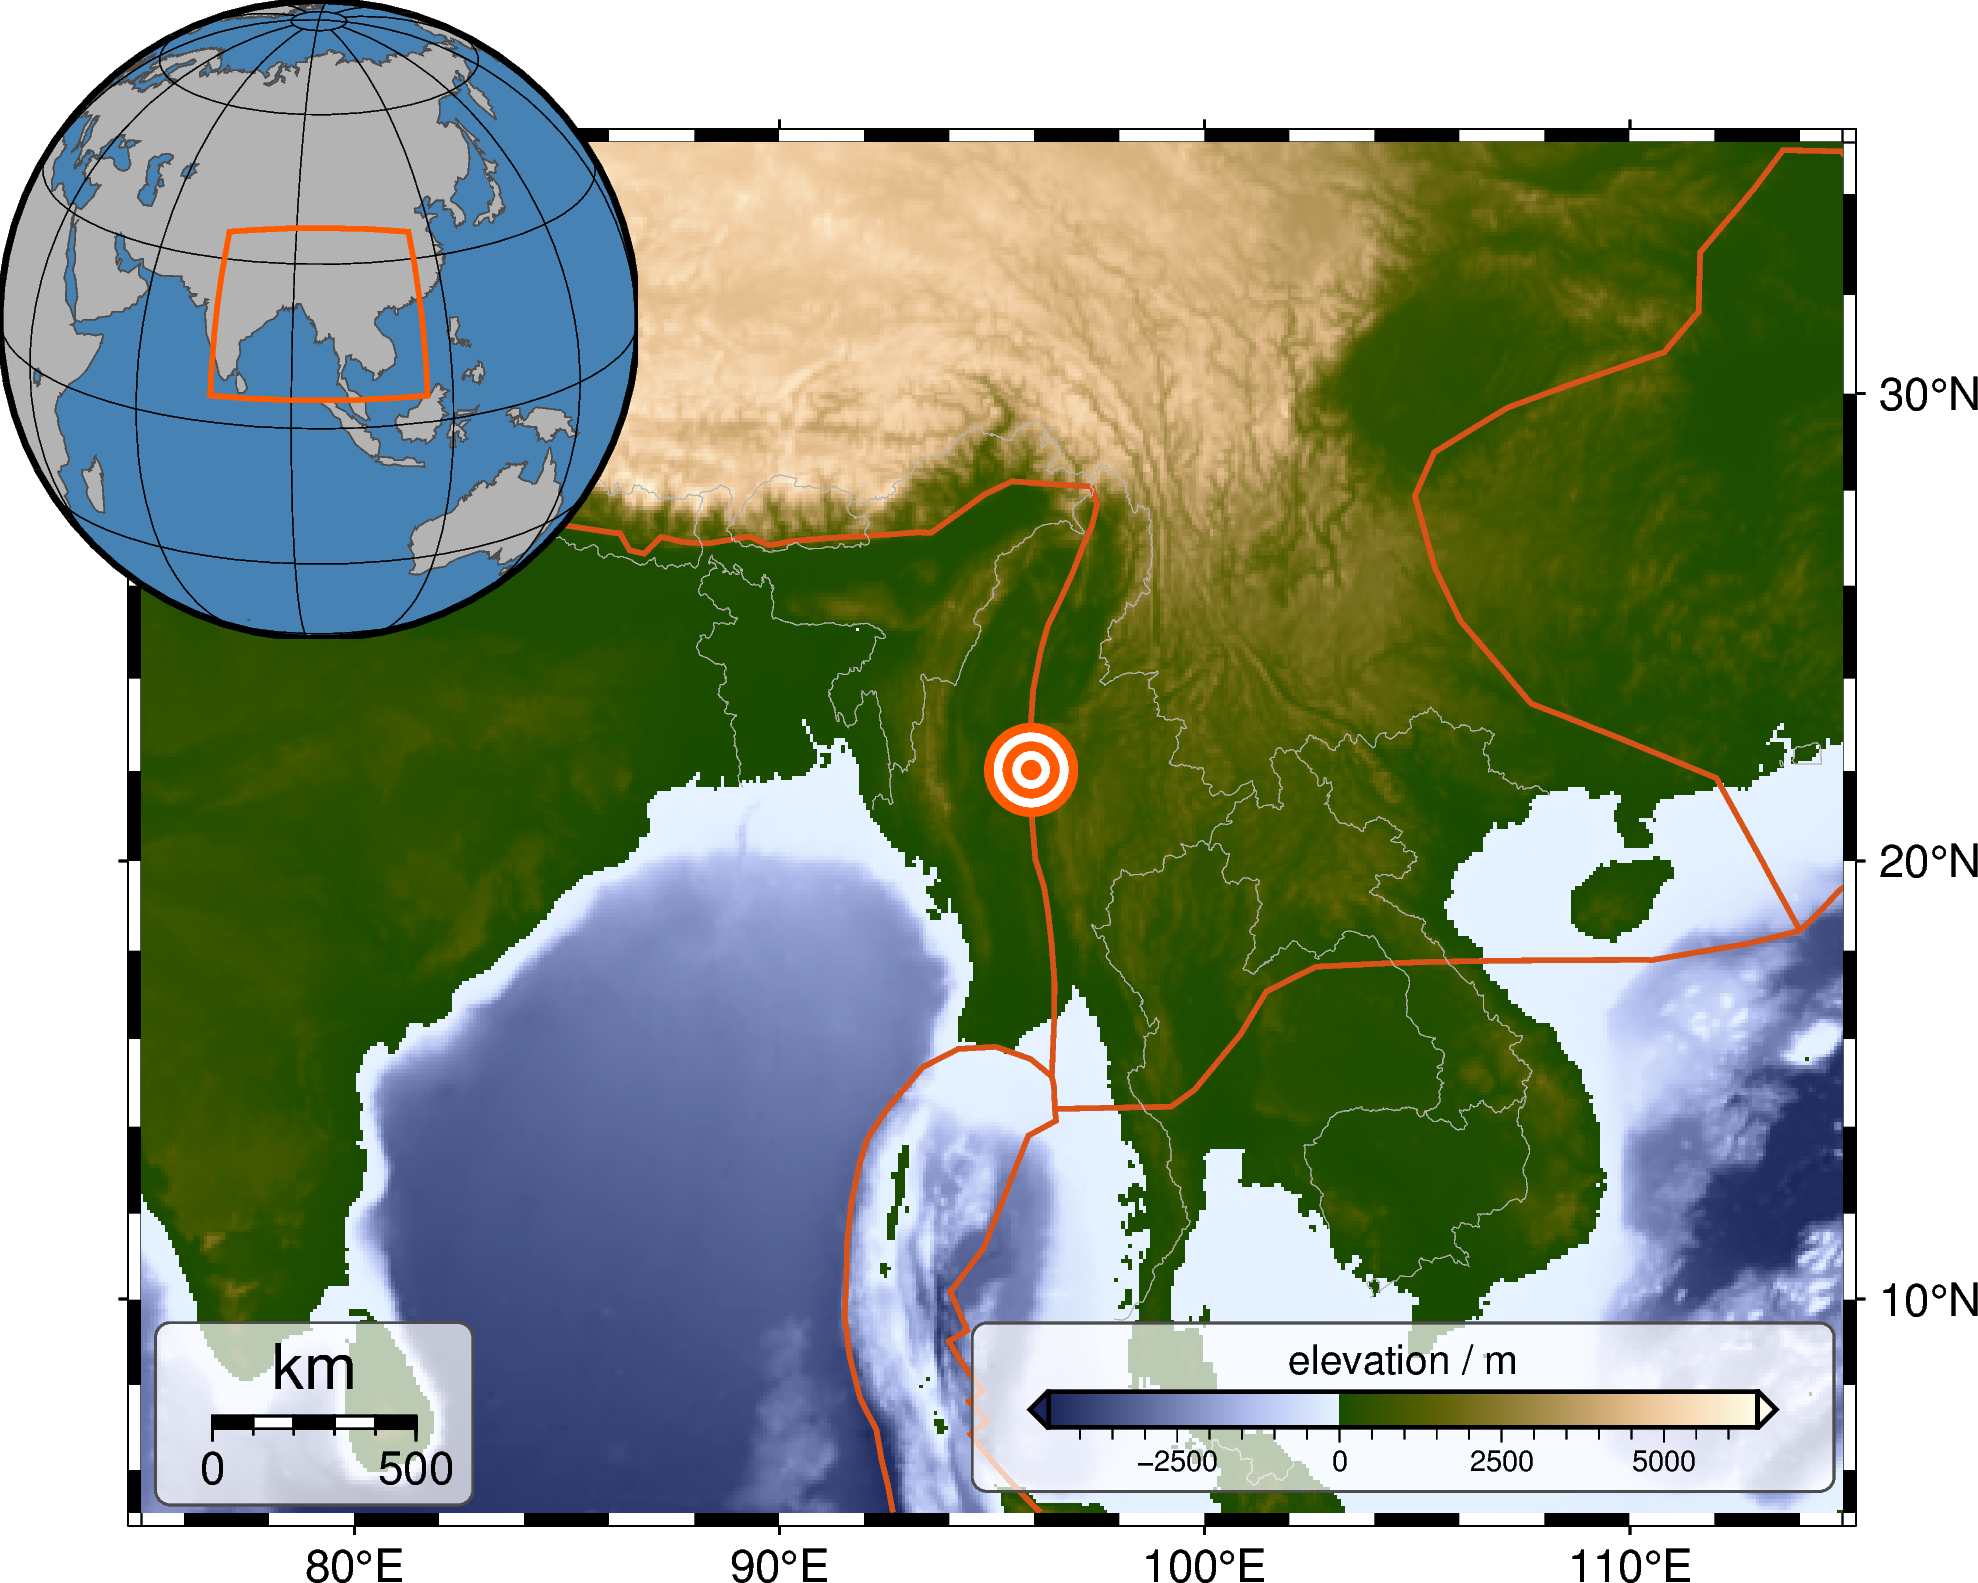
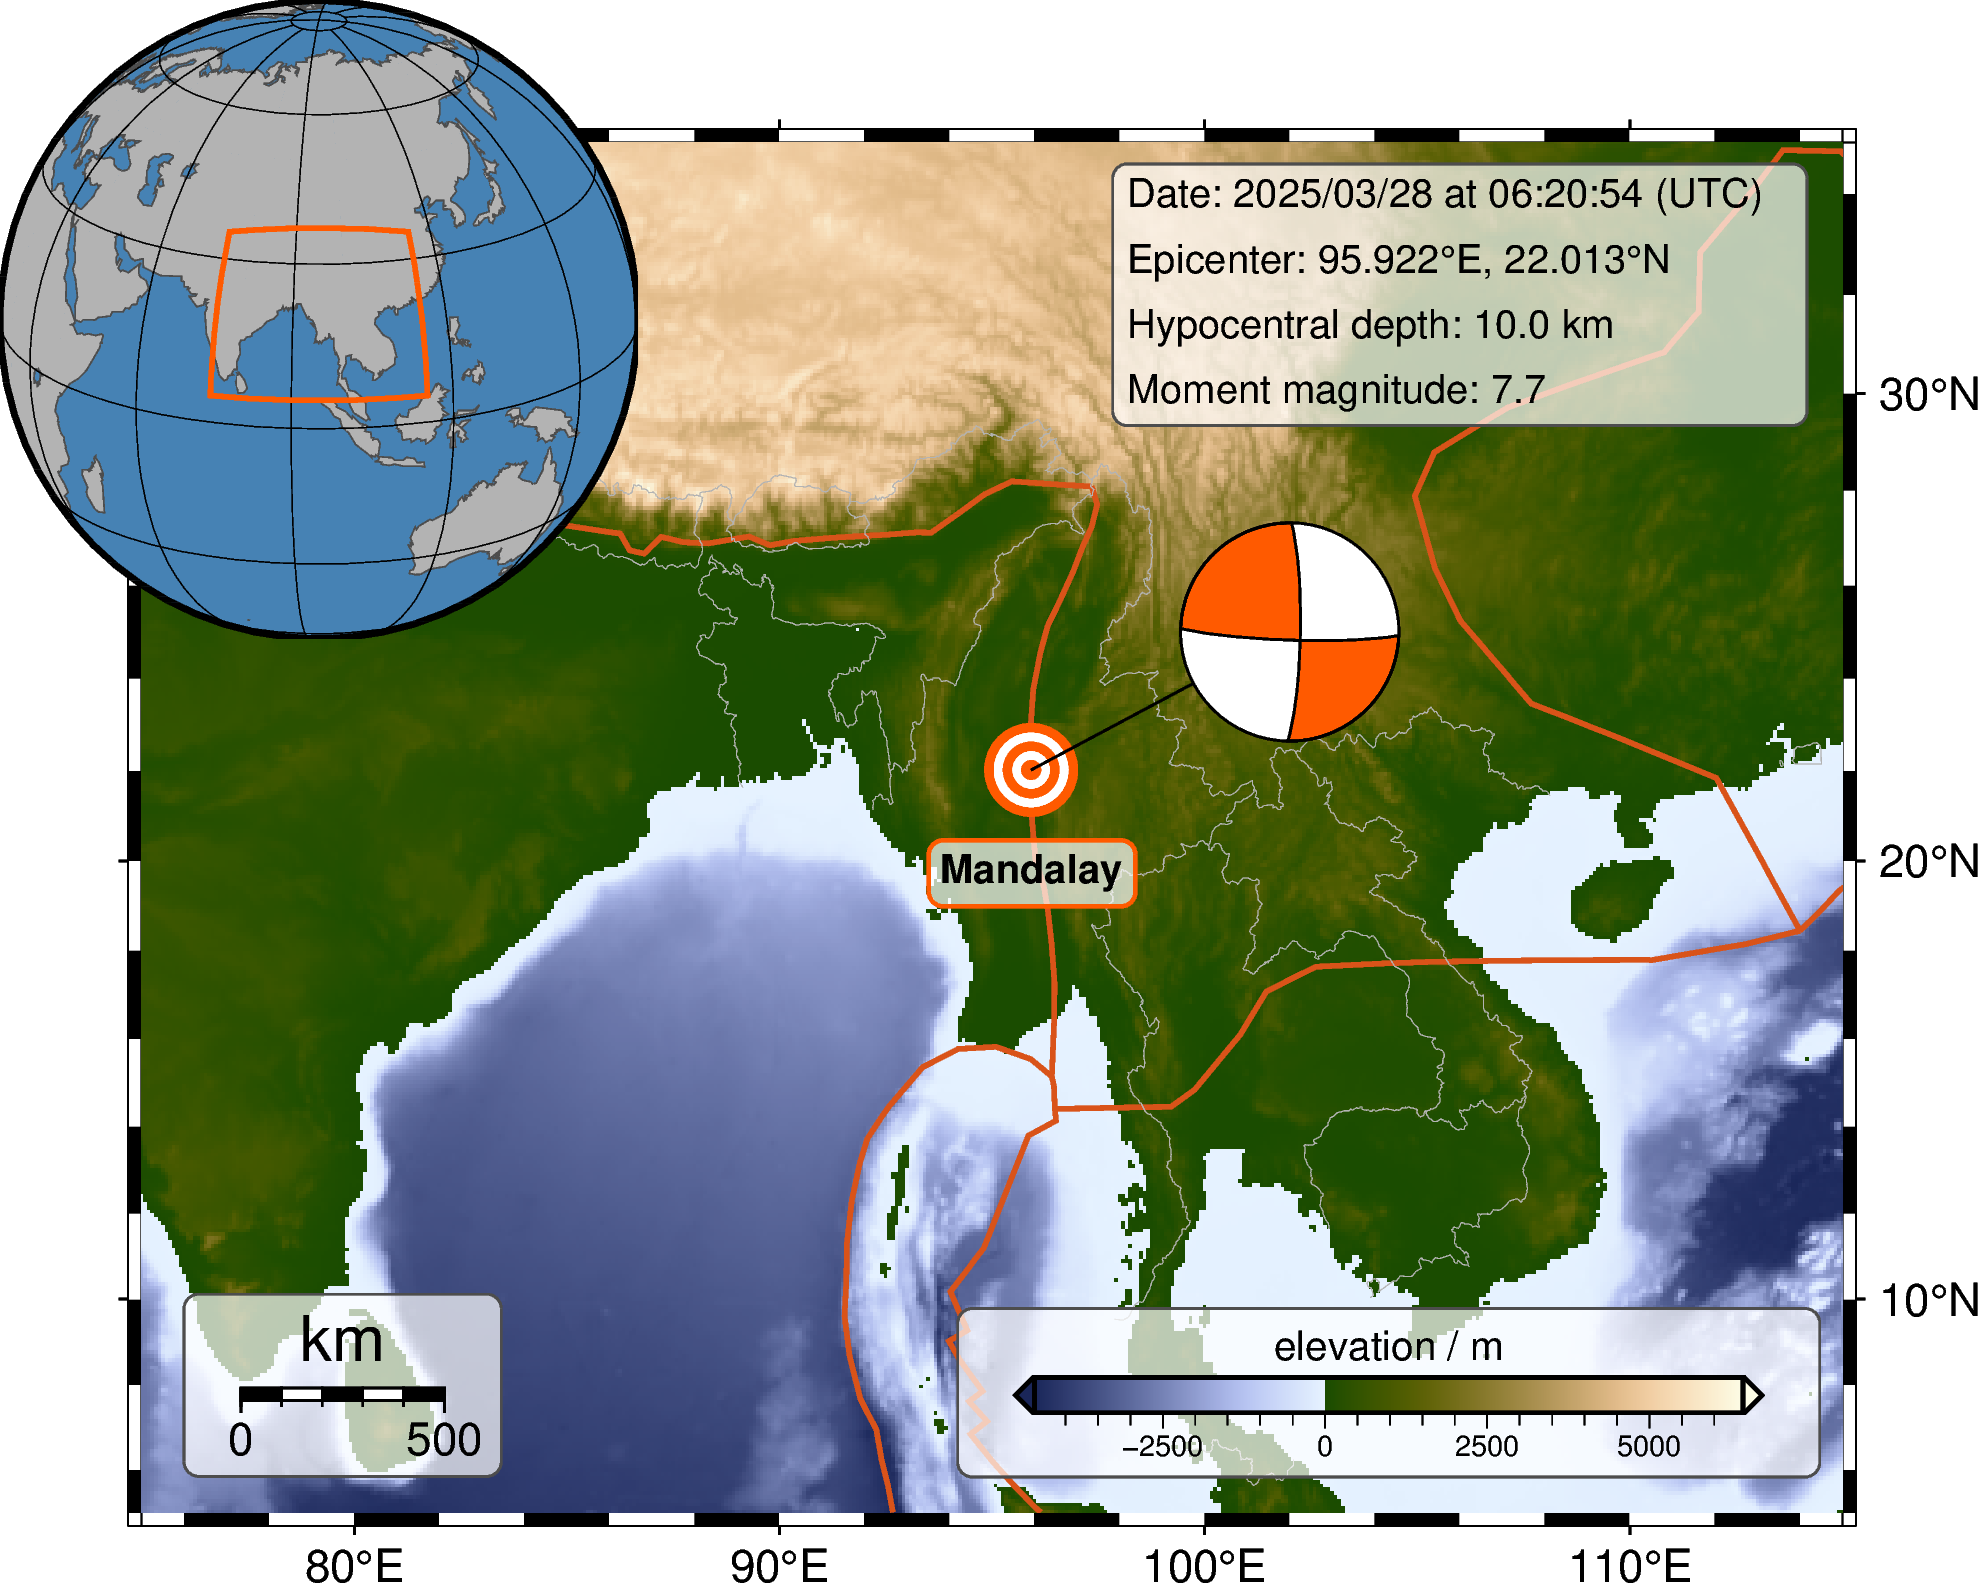
Add stuff regarding beachball

diff --git a/004_earthquakes_eruptions/08_myanmar_earthquake.py b/004_earthquakes_eruptions/08_myanmar_earthquake.py
@@ -53,8 +53,8 @@ projection_ortho = f"G{center_str}/?"
 
 # -----------------------------------------------------------------------------
 # Coordinates of epicenter
-lon_eq = 95.92  # degrees East
-lat_eq = 22.01  # degrees North
+lon_eq = 95.922  # degrees East
+lat_eq = 22.013  # degrees North
 
 # -----------------------------------------------------------------------------
 # Colors
@@ -67,11 +67,11 @@ color_highlight = "255/90/0"  # -> orange
 
 # -----------------------------------------------------------------------------
 # Stuff for scale, legends, colorbars, and insets
-basemap_scale = f"JLB+jLB+w500+c{center_str}+f+lkm+at+o0.5c"
+basemap_scale = f"JLB+jLB+w500+c{center_str}+f+lkm+at+o0.7c"
 
-pos_study_inset = "jTL+w4.5c+o-1c/-1c"
+pos_study_inset = "jTL+w4.5c+o-1c"
 
-pos_cb_grid = "JRB+jRB+w5c/0.25c+h+ml+o0.6c+e"
+pos_cb_grid = "JRB+jRB+w5c/0.25c+h+ml+o0.7c+e"
 frame_cb_grid = "xa2500f500+lelevation / m"
 
 box_standard = "+gwhite@30+p0.5p,gray30+r0.1c"
@@ -109,12 +109,11 @@ fig.plot(
     fill=color_highlight,
     pen=color_highlight,
 )
-"""
-# TODO
+
 # Beachball
 pen_epi = "0.5p,black"
 fig.meca(
-    spec=f"{path_in}/meca_thailand.txt",
+    spec=f"{path_in}/meca_myanmar.txt",
     convention="aki",
     scale="1c",
     compressionfill=color_highlight,  # fill color of compressive quadrants
@@ -125,9 +124,9 @@ fig.meca(
 fig.text(
     x=lon_eq,
     y=lat_eq,
-    text="xxx",
+    text="Mandalay",
     font="8p,Helvetica-Bold,black",
-    offset="-0.5c/-0.8c",
+    offset="0c/-0.7c",
     fill="white@30",
     pen=f"0.8p,{color_highlight}",
     clearance="0.1c/0.1c+tO",
@@ -135,14 +134,14 @@ fig.text(
 # Info text
 # Adjust position in txt file
 fig.text(
-    textfiles=f"{path_in}/info_thailand.txt",
+    textfiles=f"{path_in}/info_myanmar.txt",
     M=True,  # paragraph mode # read from file
     font="8p,black",
     fill="white@30",
     clearance="0.1c/0.1c+tO",
     pen="0.5p,gray30",
 )
-"""
+
 
 # -----------------------------------------------------------------------------
 # Add colorbar for elevation
@@ -187,7 +186,7 @@ with fig.inset(position=pos_study_inset):
 # Show and save figure
 fig.show()
 
-# for ext in ["png"]:  # , "pdf", "eps"]:
-#     fig.savefig(fname=f"{path_out}/{fig_name}.{ext}", dpi=dpi_png)
+for ext in ["png"]:  # , "pdf", "eps"]:
+    fig.savefig(fname=f"{path_out}/{fig_name}.{ext}", dpi=dpi_png)
 
 print(fig_name)

diff --git a/004_earthquakes_eruptions/README.md b/004_earthquakes_eruptions/README.md
@@ -15,6 +15,6 @@ _Recommended versions_: PyGMT v0.11.0-v0.14.2, GMT 6.4.0-6.5.0
 | [05_marocco_earthquake.py](https://github.com/yvonnefroehlich/gmt-pygmt-plotting/blob/main/004_earthquakes_eruptions/04_turkey_syria_earthquake.py)       | Marocco               | 2023/09/08 at 22:11 (UTC)            | <img src="https://github.com/yvonnefroehlich/gmt-pygmt-plotting/raw/main/004_earthquakes_eruptions/02_out_figs/05_marocco_earthquake.png" width="60"> |
 | [06_japan_earthquake_BFO.py](https://github.com/yvonnefroehlich/gmt-pygmt-plotting/blob/main/004_earthquakes_eruptions/06_japan_earthquake_BFO.py)        | Japan                 | 2024/01/01 at 07:10 (UTC)            | <img src="https://github.com/yvonnefroehlich/gmt-pygmt-plotting/raw/main/004_earthquakes_eruptions/02_out_figs/06_japan_earthquake_BFO.png" width="60"> |
 | [07_taiwan_earthquake_BFO.py](https://github.com/yvonnefroehlich/gmt-pygmt-plotting/blob/main/004_earthquakes_eruptions/07_taiwan_earthquake_BFO.py)      | Taiwan                | 2024/04/02 at 23:58 (UTC)            | <img src="https://github.com/yvonnefroehlich/gmt-pygmt-plotting/raw/main/004_earthquakes_eruptions/02_out_figs/07_taiwan_earthquake_BFO.png" width="60"> |
-| [08_myanmar_earthquake.py](https://github.com/yvonnefroehlich/gmt-pygmt-plotting/blob/main/004_earthquakes_eruptions/08_myanmar_earthquake.py)            | Myanmar               | 2025/03/28 at 00:20:54 (UTC)         | <img src="https://github.com/yvonnefroehlich/gmt-pygmt-plotting/raw/main/004_earthquakes_eruptions/02_out_figs/08_myanmar_earthquake.png" width="60"> |
+| [08_myanmar_earthquake.py](https://github.com/yvonnefroehlich/gmt-pygmt-plotting/blob/main/004_earthquakes_eruptions/08_myanmar_earthquake.py)            | Myanmar               | 2025/03/28 at 06:20:54 (UTC)         | <img src="https://github.com/yvonnefroehlich/gmt-pygmt-plotting/raw/main/004_earthquakes_eruptions/02_out_figs/08_myanmar_earthquake.png" width="60"> |
 
 ![](https://github.com/yvonnefroehlich/gmt-pygmt-plotting/raw/main/_images/github_maps_readme_004events.png)
